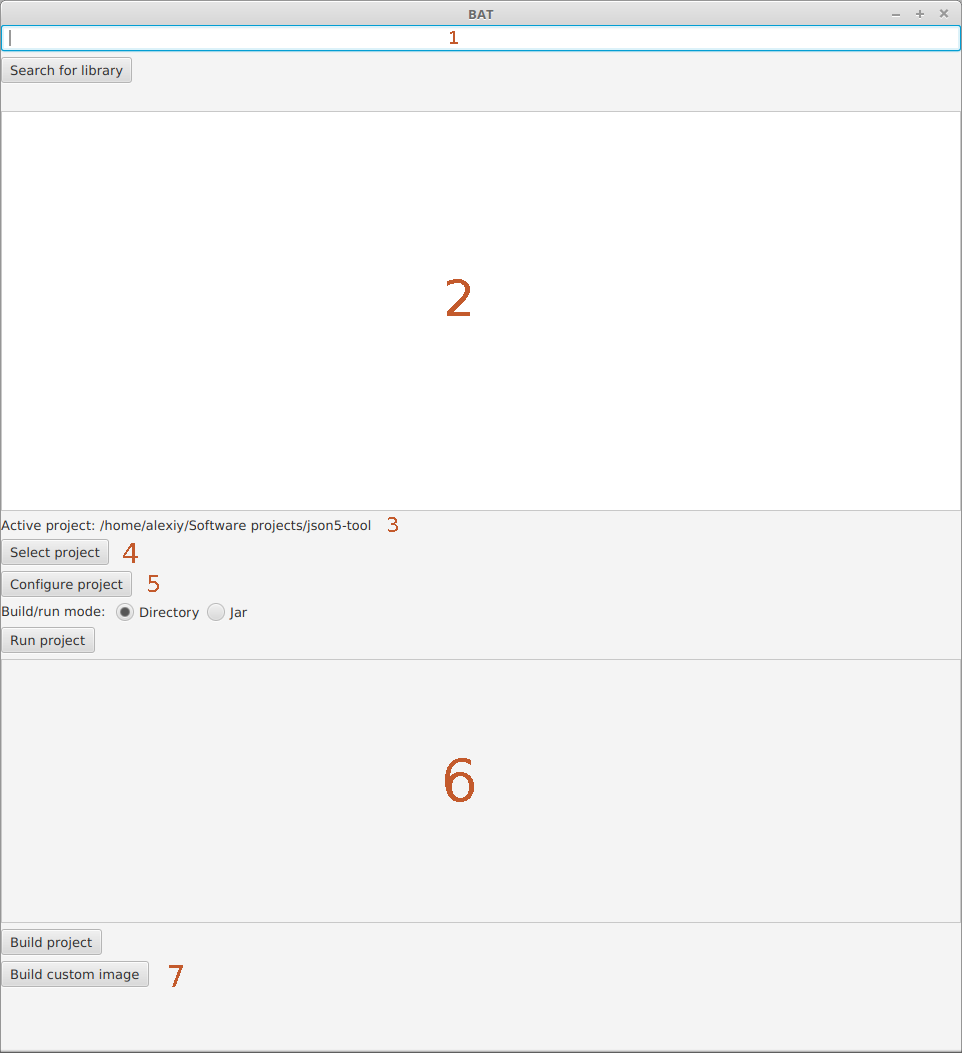
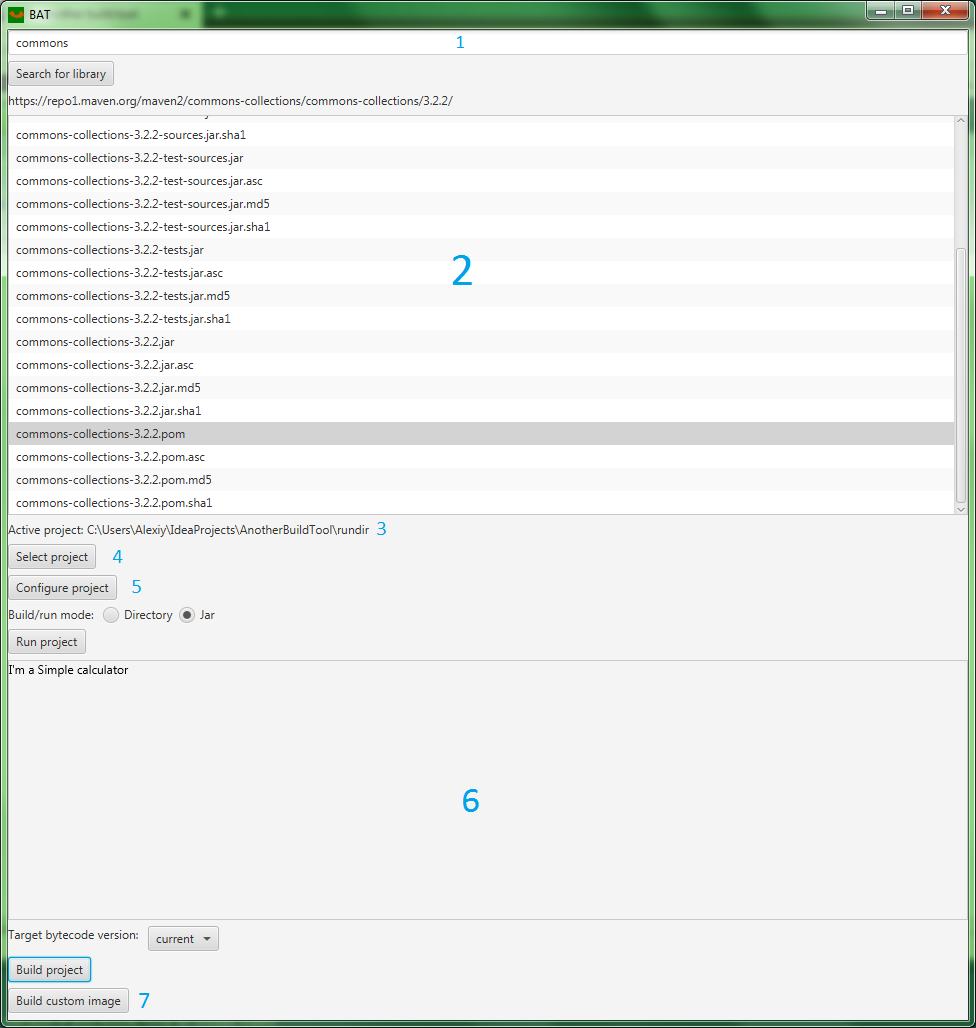
Fixed image

Changed region(s): [[0.0, 0.0, 1.0, 1.0], [0.4678, 0.716, 0.499, 0.8093], [0.4678, 0.249, 0.499, 0.3113]]

diff --git a/index.html b/index.html
@@ -93,14 +93,16 @@
 press that button again to make Bat create directories and module-info file derived from the artifact and group ids.</p>
 <p>Specify necessary dependencies in a standard Maven way, and configure project again. Bat will try to resolve dependencies and download them to the local Maven.
   If you don't specify the version of a dependency, then Bat will download a last "release" version of it. If the process goes wrong, you can interrupt it by pressing "Finish".</p>
+<p>You can use the Maven search field to find the artifacts. The list will show directory structure of the repository. You can navigate among directories by double-clicking;
+  right-clicking on the POM file will show the primary information about that artifact.</p>
 <P>You can monitor the console for details and any exceptions that happen.</P>
 <p>Once you've written some code, you can build it. If you specified the main class, you can also run it. Main class value should look like <i>module.name/package/name/MainClass.java</i>.</p>
 <p>"Build custom image" will create a runtime image of the application.</p>
 <p>That's it with the basic usage. Remember that when you make any changes in the project file, you must reconfigure the project.</p>
 
 <h1 class="middle">Further information and support</h1>
-<p>If you have questions, ideas, feature requests, you can message me at this address - <b>alexiy.ov@gmail.com</b>. This tool needs testing with real world scenarios. My goal is to
-develop an independent and convenient to use build tool. Issues can be reported <a href="https://bitbucket.org/Krosenut/bat/issues">here</a>. </p>
+<p>If you have questions, ideas, feature requests, you can message me at this address - <b>alexiy.ov@gmail.com</b>. Issues can be reported <a href="https://bitbucket.org/Krosenut/bat/issues">here</a>. This tool needs testing in real world scenarios; my goal is to
+develop an independent and convenient to use build tool. </p>
 
 <p>All rights reserved, 2020.</p>
 
